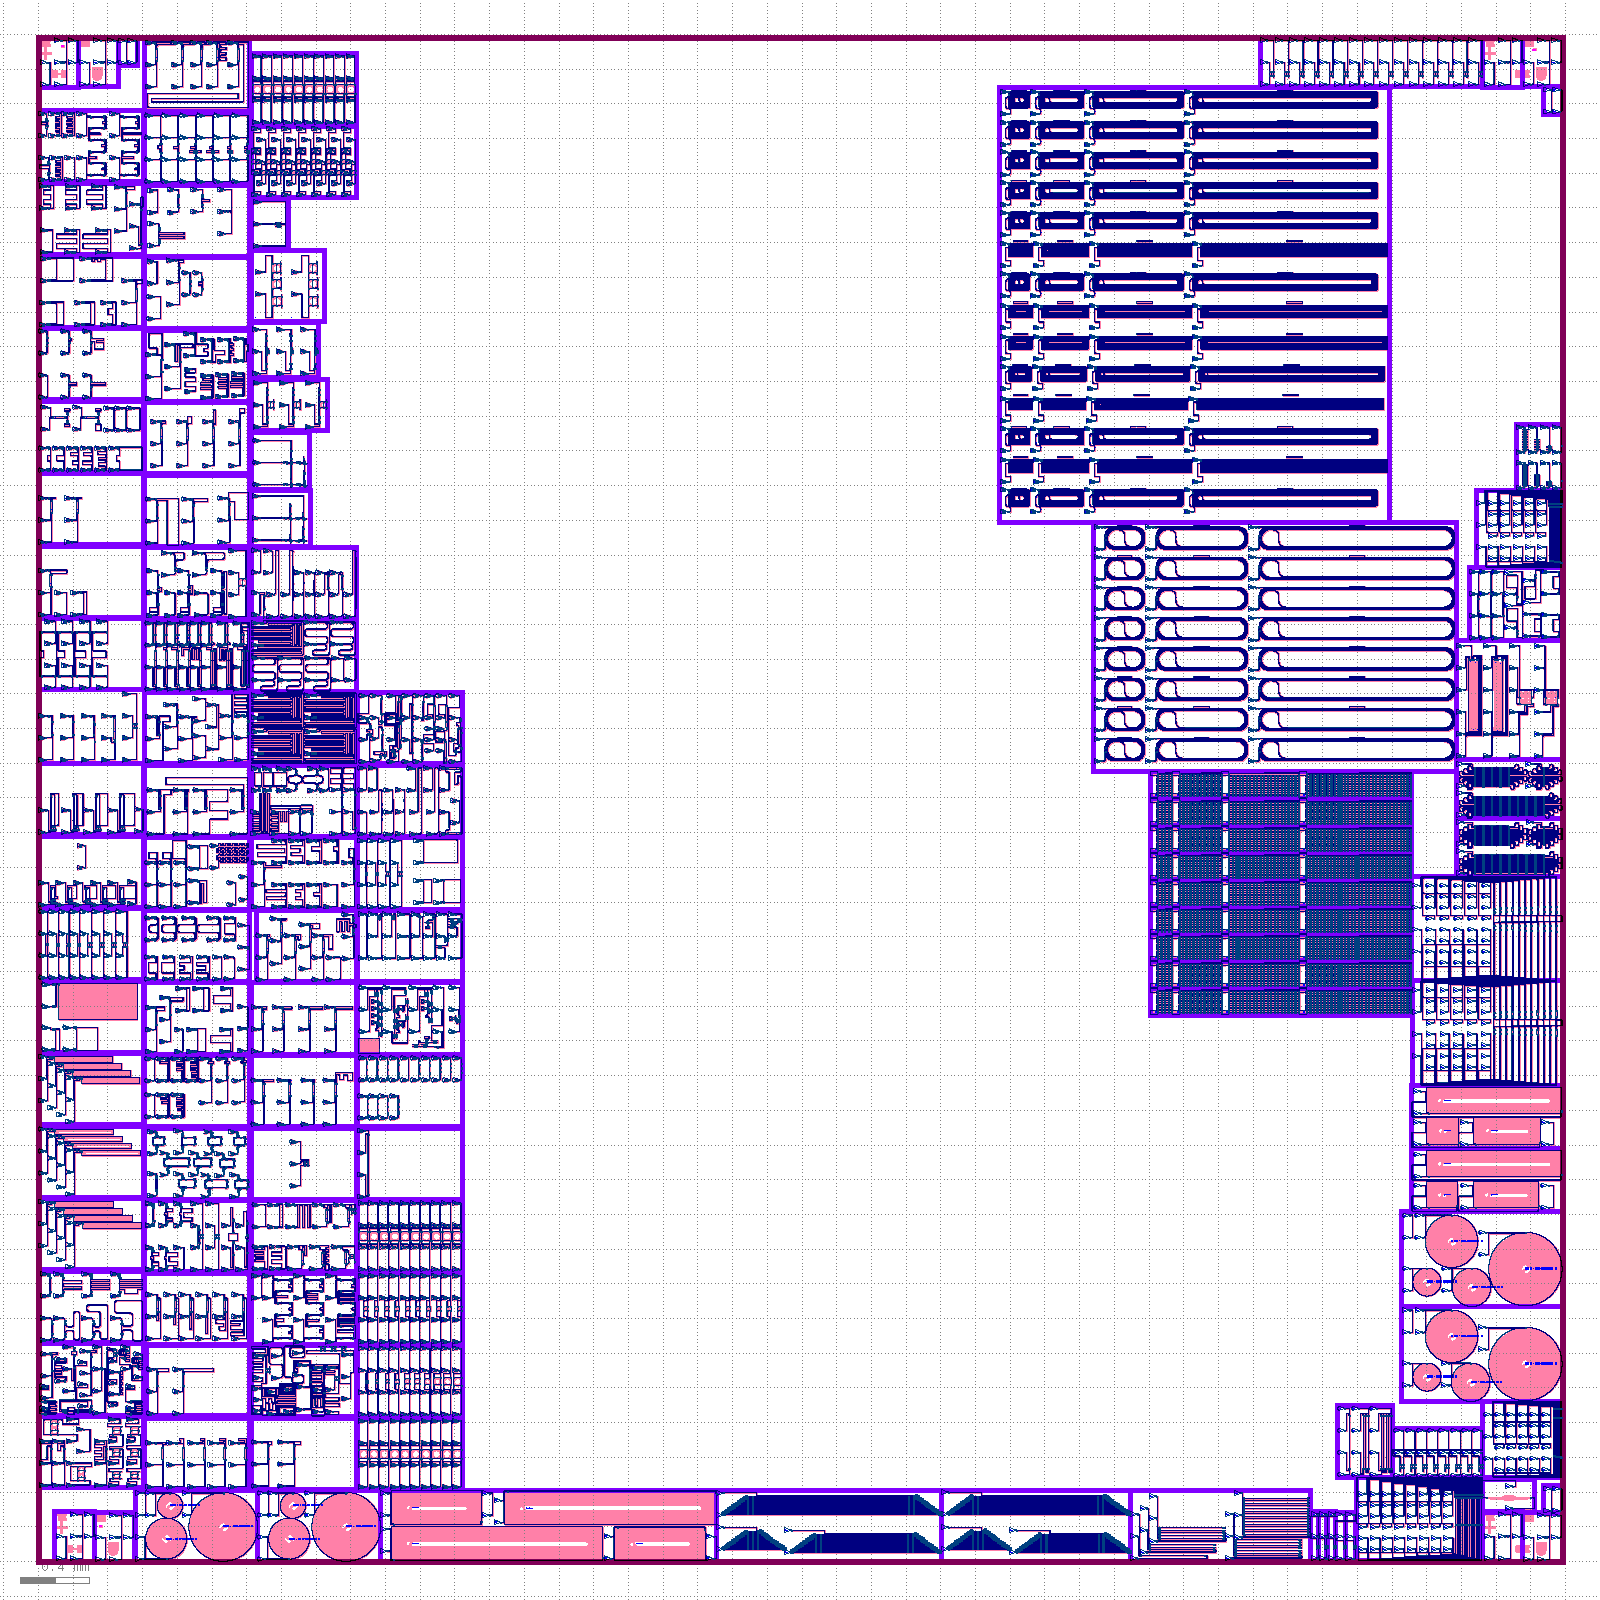
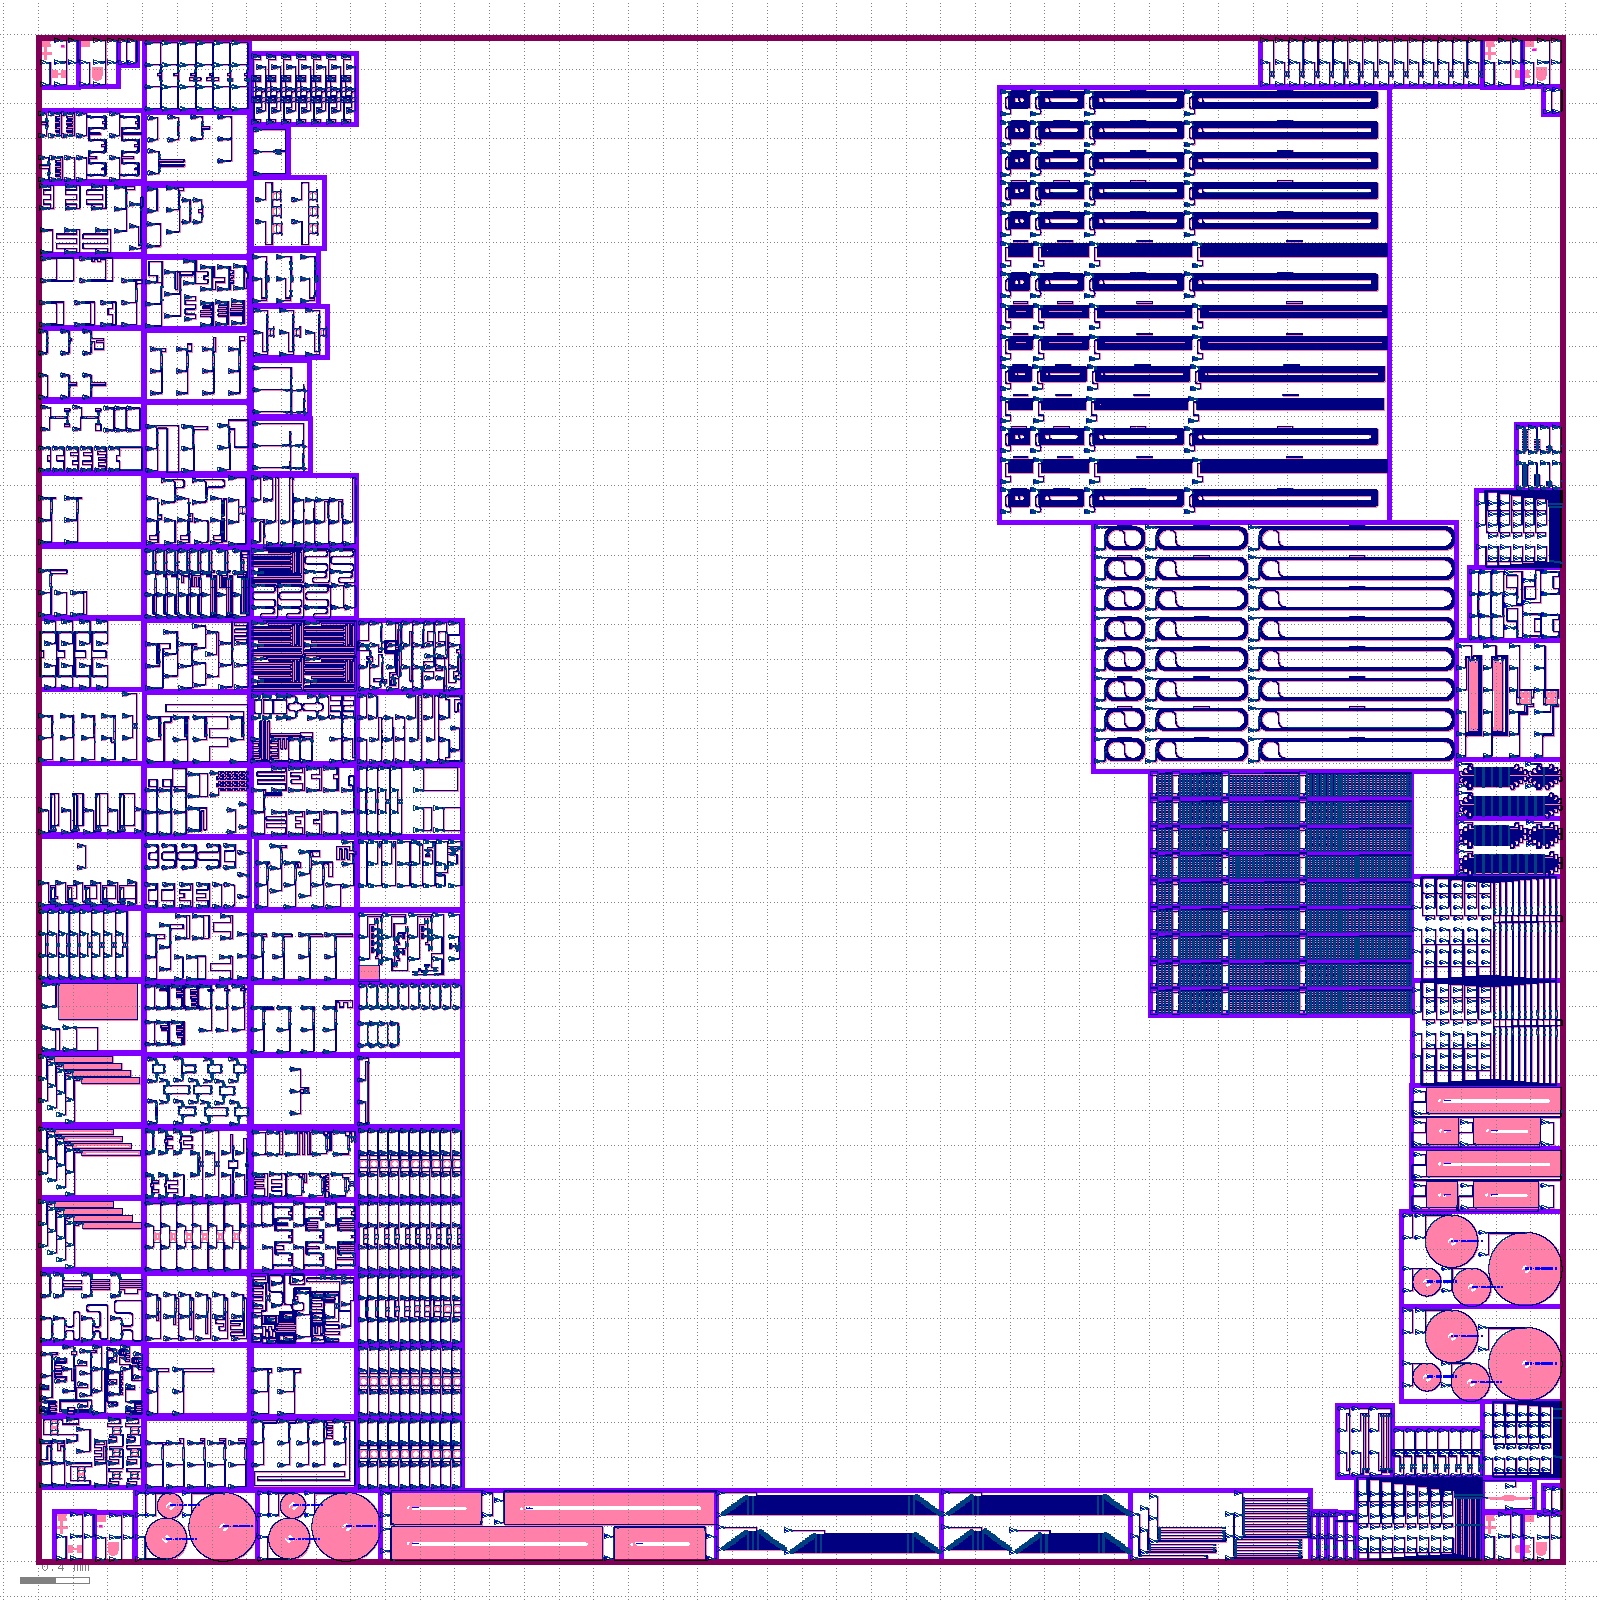
Aggregation layout: https://github.com/SiEPIC/openEBL-2026-05/actions/runs/25898372903/artifacts/7009457988

Changed region(s): [[0.0938, 0.0, 0.3125, 0.9375]]

diff --git a/README.md b/README.md
@@ -91,5 +91,5 @@ Will be added here.
 
 Click on the following link to download the EBeam.oas merged layout file:
 <!-- start-link -->
-https://github.com/SiEPIC/openEBL-2026-05/actions/runs/25896803515/artifacts/7008908415
+https://github.com/SiEPIC/openEBL-2026-05/actions/runs/25898372903/artifacts/7009457988
 <!-- end-link -->